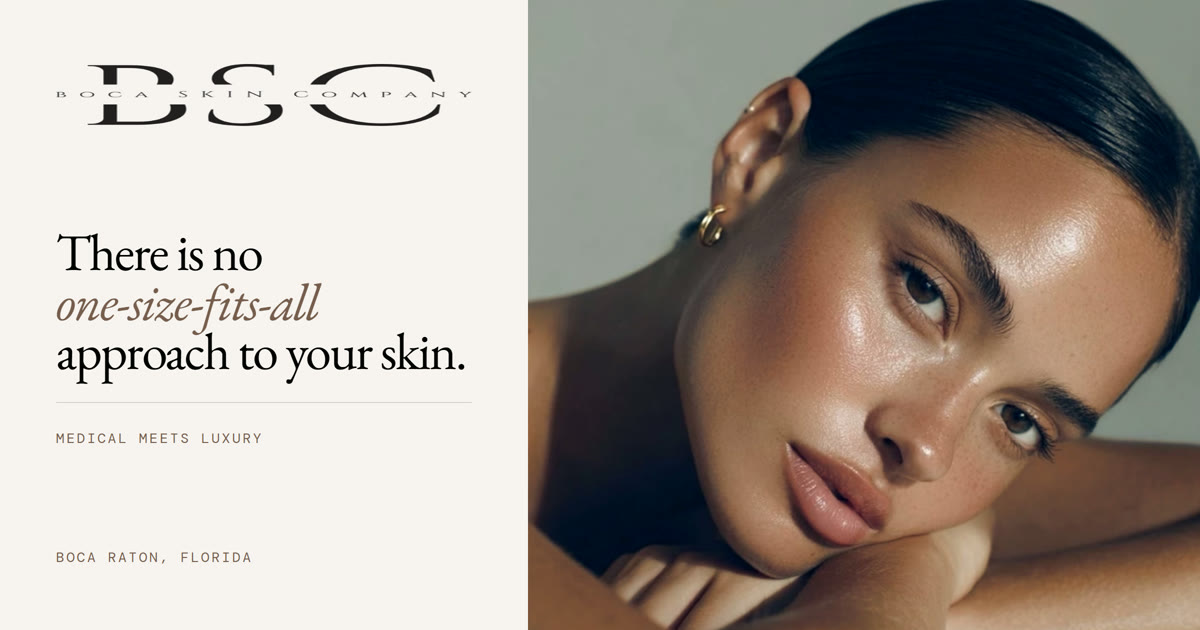
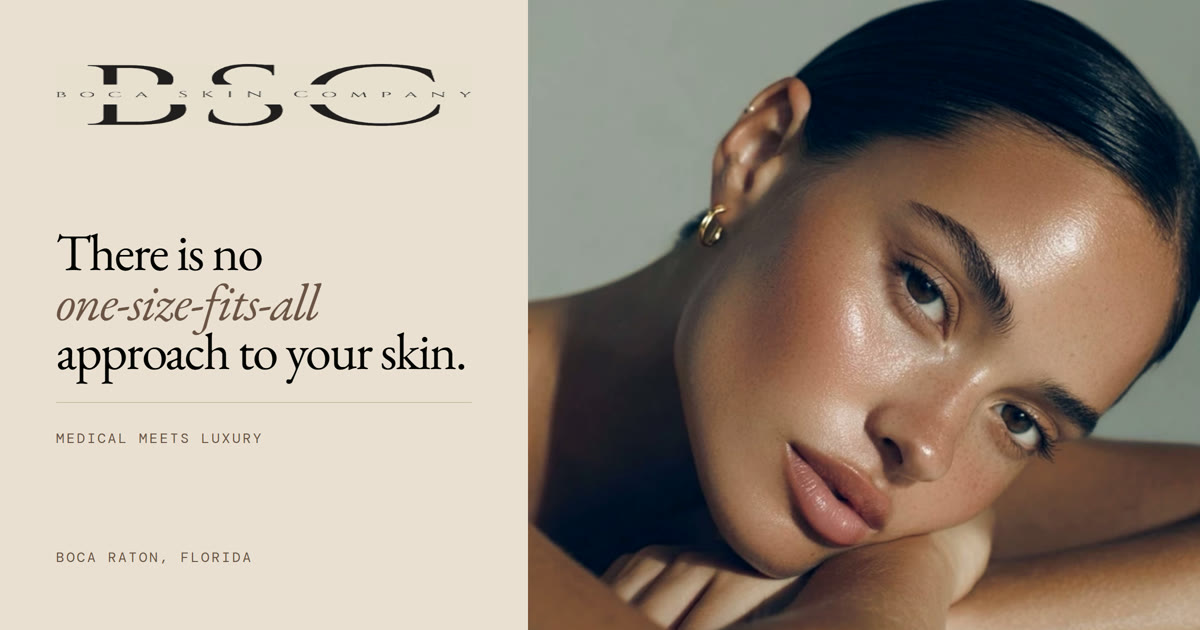
feat: warm the whole palette, replace the window and bath rooms, fix mobile
Three things.

TINT. The grounds were near-white and fought the client's own dim, candle-lit
photography. Paper moves from #F7F3F0 to #EAE0D2 and the deeper ground to
#E0D5C4; red-minus-blue goes from 7 to 24. That change breaks contrast if the
inks are left alone, so they were warmed and darkened with it: the muted grey
measured 4.10:1 on the new ground and is now #5E574D at 5.46:1. Small mocha
labels get their own darker token, since brand mocha is 4.19:1 on the deeper
ground, fine for a field or a rule but not for 11px type. Reduced-opacity
paper on mocha fell to 4.00:1 and is now white at 5.16:1. Everything measured,
nothing eyeballed.

IMAGERY. The arched-window lounge and the bathtub room are gone. Replaced with
four rooms generated on gemini-3-pro-image in the register of the photographs
the client supplied: plaster, linen, candlelight, deep shadow. No lettering in
any prompt, since gibberish type is the loudest tell that an image was made
rather than taken. Each was measured and graded into the same warmth band as
the rest of the site (21-28 against a reference of 18-28).

Two knock-on fixes the new dark hero forced:
- The headline crosses the image and now changes colour where it does. It had
  been a single black line, which was right over a bright beige room and
  invisible over a dark one.
- That colour change was landing one gutter-width late. clip-path is measured
  from the element's own origin, not the viewport, so the 39vw boundary needed
[…]

diff --git a/src/components/Hero.tsx b/src/components/Hero.tsx
@@ -15,11 +15,11 @@ import { hero, site } from "@/lib/content";
  * column carries two anchors — display type at the top, a compact conversion
  * cluster at the bottom — so the space between them is tension, not vacancy.
  *
- * The headline is a single continuous line of type that crosses the image
- * boundary. An earlier version drew a second paper-colored copy clipped to
- * the image, but the room is bright beige, so the light copy had almost no
- * contrast against it. Black reads cleanly over this crop, and one unbroken
- * headline cutting the room is the stronger composition anyway.
+ * The headline crosses the image boundary and changes colour where it does.
+ * It renders twice: black over the paper, and a paper-coloured copy clipped
+ * to the image region. The room is a dim, candle-lit interior, so a single
+ * black headline would disappear the moment it crossed. mix-blend-mode is
+ * avoided deliberately; it is unpredictable over an arbitrary crop.
  */
 function Headline() {
   return (
@@ -46,7 +46,7 @@ export default function Hero() {
         <div className="absolute inset-y-0 right-0" style={{ width: "61vw" }}>
           <Image
             src="/img/hero-room.webp"
-            alt="The arched lounge at Boca Skin Company in Boca Raton"
+            alt="A candle-lit treatment room at Boca Skin Company"
             fill
             priority
             sizes="61vw"
@@ -55,10 +55,26 @@ export default function Hero() {
           />
         </div>
 
-        {/* one continuous headline cutting across the image boundary */}
+        {/* black over paper */}
         <div
-          className="absolute z-[3] rise"
+          className="absolute z-[2] rise"
           style={{ left: "var(--gutter)", top: 128 }}
+        >
+          <Headline />
+        </div>
+
+        {/* the same headline in paper, clipped to the dark image region */}
+        <div
+          className="absolute z-[3] pointer-events-none rise"
+          style={{
+            left: "var(--gutter)",
+            top: 128,
+            color: "var(--color-paper)",
+            clipPath:
+              "polygon(calc(39vw - var(--gutter)) 0, 200% 0, 200% 100%, calc(39vw - var(--gutter)) 100%)",
+            width: "calc(100vw - var(--gutter))",
+          }}
+          aria-hidden
         >
           <Headline />
         </div>
@@ -105,7 +121,7 @@ export default function Hero() {
         >
           <Image
             src="/img/hero-room.webp"
-            alt="The arched lounge at Boca Skin Company in Boca Raton"
+            alt="A candle-lit treatment room at Boca Skin Company"
             fill
             priority
             sizes="100vw"
@@ -114,8 +130,9 @@ export default function Hero() {
           />
         </div>
 
-        {/* the headline crosses the bottom edge of the photograph */}
-        <div className="relative z-[2] shell" style={{ marginTop: -50 }}>
+        {/* No overlap on mobile: the room is a dark, candle-lit interior and
+            black display type laid over it would be unreadable. */}
+        <div className="relative z-[2] shell pt-8">
           <div className="rise">
             <Headline />
           </div>

diff --git a/src/app/globals.css b/src/app/globals.css
@@ -3,7 +3,7 @@
 /* ==========================================================================
    BOCA SKIN COMPANY — design system
    Palette and type pairing are sampled from the existing brand, not invented:
-   #000000 / #775D4D / #FFFFFF / #F7F3F0, high-contrast old-style serif for
+   #000000 / #775D4D / warm paper, high-contrast old-style serif for
    display, letterspaced mono for every functional label.
    Hard rules, enforced everywhere: 0px radius, no shadows, no gradients.
    Depth comes only from 1px rules.
@@ -11,14 +11,25 @@
 
 @theme {
   --color-ink: #000000;
-  --color-ink-80: #33302e;
-  --color-ink-55: #6f6a66;
+  /* Supporting inks are warmed AND darkened together with the ground. On a
+     tan paper the old cool greys both clashed and fell under AA: #6f6a66
+     measured 4.10:1 on the new ground. */
+  --color-ink-80: #34302a;
+  --color-ink-55: #5e574d;
+
   --color-mocha: #775d4d;
+  /* The brand mocha is 4.19:1 on the deeper ground, which is fine for a field
+     or a rule but not for 11px labels. Small mocha text uses this instead. */
+  --color-mocha-ink: #6b5344;
   --color-mocha-deep: #5b463a;
   --color-mocha-soft: #a3897a;
-  --color-paper: #f7f3f0;
-  --color-paper-deep: #ece5e0;
-  --color-rule: #d9d0c9;
+
+  /* The tint. Warm sand rather than near-white, so the grounds sit with the
+     studio's own dim, candle-lit photography instead of fighting it.
+     Red-minus-blue moves from 7 to 24. */
+  --color-paper: #eae0d2;
+  --color-paper-deep: #e0d5c4;
+  --color-rule: #cdbfa9;
   --color-rule-dark: #3a2f28;
 
   --font-display: var(--font-eb-garamond), "EB Garamond", Garamond,
@@ -131,7 +142,7 @@ video {
   letter-spacing: 0.14em;
   text-transform: uppercase;
   line-height: 1.2;
-  color: var(--color-mocha);
+  color: var(--color-mocha-ink);
 }
 
 .meta {

diff --git a/src/components/Header.tsx b/src/components/Header.tsx
@@ -130,7 +130,7 @@ export default function Header() {
                 onClick={() => setOpen(false)}
                 className="display d-lg text-[color:var(--color-paper)] py-2.5 border-b"
                 style={{
-                  borderColor: "rgba(247,243,240,0.22)",
+                  borderColor: "rgba(234,224,210,0.24)",
                   opacity: open ? 1 : 0,
                   transform: open ? "none" : "translateY(14px)",
                   transition: `opacity 520ms var(--ease-bsc) ${180 + i * 60}ms, transform 520ms var(--ease-bsc) ${180 + i * 60}ms`,
@@ -157,7 +157,7 @@ export default function Header() {
             <div
               className="mt-8 flex flex-col gap-1.5"
               style={{
-                color: "rgba(247,243,240,0.88)",
+                color: "rgba(255,255,255,0.88)",
                 opacity: open ? 1 : 0,
                 transition: "opacity 520ms var(--ease-bsc) 520ms",
               }}
@@ -187,7 +187,7 @@ export default function Header() {
           }}
         >
           <Image
-            src="/img/room-lounge.webp"
+            src="/img/room-detail.webp"
             alt=""
             fill
             sizes="100vw"

diff --git a/src/components/Footer.tsx b/src/components/Footer.tsx
@@ -9,8 +9,8 @@ import { site, nav } from "@/lib/content";
  */
 export default function Footer() {
   const year = new Date().getFullYear();
-  const dim = "rgba(247,243,240,0.88)";
-  const hair = "rgba(247,243,240,0.22)";
+  const dim = "rgba(255,255,255,0.88)";
+  const hair = "rgba(234,224,210,0.24)";
 
   return (
     <footer style={{ background: "var(--color-ink)", color: "var(--color-paper)" }}>
@@ -18,8 +18,12 @@ export default function Footer() {
       <div className="relative bleed overflow-hidden">
         {/* neon fragment, partially cut by the right edge */}
         <div
-          className="pointer-events-none absolute right-0 bottom-0 hidden md:block"
-          style={{ width: "min(38vw, 520px)", height: "min(58vh, 520px)" }}
+          className="pointer-events-none absolute right-0 bottom-0"
+          style={{
+            width: "min(62vw, 520px)",
+            height: "min(46vh, 520px)",
+            opacity: 0.9,
+          }}
           aria-hidden
         >
           <Image

diff --git a/src/app/about/page.tsx b/src/app/about/page.tsx
@@ -208,7 +208,7 @@ export default function AboutPage() {
             <h2 className="display d-xl rise">{teamWork.title}</h2>
             <div
               className="mt-7 max-w-[46ch] rise"
-              style={{ color: "rgba(247,243,240,0.88)", fontSize: 18, lineHeight: 1.55 }}
+              style={{ color: "rgba(255,255,255,0.88)", fontSize: 18, lineHeight: 1.55 }}
             >
               {teamWork.body.map((p) => (
                 <p key={p.slice(0, 20)} className="mt-4 first:mt-0">

diff --git a/src/app/contact/page.tsx b/src/app/contact/page.tsx
@@ -73,7 +73,7 @@ export default function ContactPage() {
         <div className="shell chapter-tight">
           <div className="grid gap-10 lg:grid-cols-[minmax(0,1fr)_auto] lg:items-end">
             <div>
-              <p className="label" style={{ color: "rgba(247,243,240,0.88)" }}>
+              <p className="label" style={{ color: "rgba(255,255,255,0.88)" }}>
                 Finding us
               </p>
               <p className="display d-lg mt-6 max-w-[18ch]">

diff --git a/src/app/services/page.tsx b/src/app/services/page.tsx
@@ -24,8 +24,8 @@ export default function ServicesPage() {
         eyebrow="Explore our services"
         title="Services"
         deck="We'll help you achieve your unique beauty goals, one personalized treatment at a time."
-        image="/img/hero-bath.webp"
-        alt="A treatment suite at Boca Skin Company"
+        image="/img/hero-nook.webp"
+        alt="A candle-lit corner at Boca Skin Company"
         objectPosition="55% 40%"
         action={
           <a

diff --git a/src/app/layout.tsx b/src/app/layout.tsx
@@ -70,7 +70,7 @@ export const metadata: Metadata = {
 };
 
 export const viewport: Viewport = {
-  themeColor: "#F7F3F0",
+  themeColor: "#EAE0D2",
   width: "device-width",
   initialScale: 1,
 };
